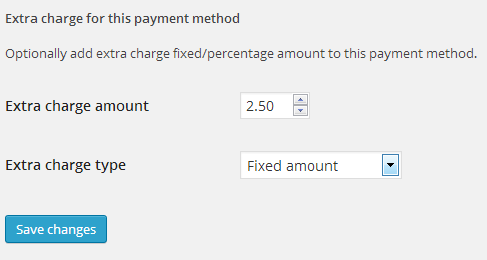
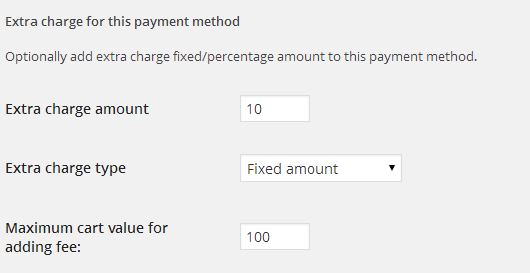
Version 1.3
* Add: You can set the maximum cart value to which apply fees.
* Tweak: Updated languages files
* Tweak: No longer calling the fees "Extra charges", but "fees" or "Payment method fees".
* Fix: Admin order page Javascript calculations now works properly

diff --git a/assets/js/write-panels.js b/assets/js/write-panels.js
@@ -1,13 +1,11 @@
 jQuery( document ).ready( function( $ ) {
     $( 'button.calc_totals').unbind( 'click' );
 
-    console.log( $( 'button.calc_totals').unbind( 'click' ) );
-
     $( 'button.calc_totals').on( 'click', function() {
         // Block write panel
-        $('#woocommerce-order-totals').block({ message: null, overlayCSS: { background: '#fff url(' + woocommerce_writepanel_params.plugin_url + '/assets/images/ajax-loader.gif) no-repeat center', opacity: 0.6 } });
+        $('#woocommerce-order-totals').block({ message: null, overlayCSS: { background: '#fff url(' + woocommerce_admin_meta_boxes.plugin_url + '/assets/images/ajax-loader.gif) no-repeat center', opacity: 0.6 } });
 
-        var answer = confirm(woocommerce_writepanel_params.calc_totals);
+        var answer = confirm(woocommerce_admin_meta_boxes.calc_totals);
 
         if (answer) {
 
@@ -43,7 +41,7 @@ jQuery( document ).ready( function( $ ) {
                 line_subtotal_taxes = line_subtotal_taxes + line_subtotal_tax;
                 line_totals = line_totals + line_total;
 
-                if ( woocommerce_writepanel_params.round_at_subtotal=='no' ) {
+                if ( woocommerce_admin_meta_boxes.round_at_subtotal=='no' ) {
                     line_tax = accounting.toFixed( line_tax, 2 );
                 }
 
@@ -51,7 +49,7 @@ jQuery( document ).ready( function( $ ) {
             });
 
             // Tax
-            if (woocommerce_writepanel_params.round_at_subtotal=='yes') {
+            if (woocommerce_admin_meta_boxes.round_at_subtotal=='yes') {
                 cart_tax = accounting.toFixed( cart_tax, 2 );
             }
 
@@ -69,7 +67,7 @@ jQuery( document ).ready( function( $ ) {
 
                 line_totals = line_totals + line_total;
 
-                if ( woocommerce_writepanel_params.round_at_subtotal=='no' ) {
+                if ( woocommerce_admin_meta_boxes.round_at_subtotal=='no' ) {
                     line_tax = accounting.toFixed( line_tax, 2 );
                 }
 
@@ -77,7 +75,7 @@ jQuery( document ).ready( function( $ ) {
             });
 
             // Tax
-            if (woocommerce_writepanel_params.round_at_subtotal=='yes') {
+            if (woocommerce_admin_meta_boxes.round_at_subtotal=='yes') {
                 cart_tax = parseFloat( accounting.toFixed( cart_tax, 2 ) );
             }
 

diff --git a/classes/class.wc-pgec.php b/classes/class.wc-pgec.php
@@ -76,14 +76,15 @@ class WooCommerce_Payment_Gateway_Extra_Charges {
     public function __construct() {
         global $pagenow;
 
-        $this->version                      = '1.1';
-        $this->suffix                       = defined( 'SCRIPT_DEBUG' ) && SCRIPT_DEBUG ? '' : '.min';
-        $this->plugin_url                   = $this->plugin_url();
-        $this->plugin_path                  = $this->plugin_path();
-        $this->gateways                     = WC()->payment_gateways->payment_gateways();
-        $this->current_gateway              = null;
-        $this->current_extra_charge_type    = '';
-        $this->current_extra_charge_amount  = 0;
+        $this->version                              = '1.3';
+        $this->suffix                               = defined( 'SCRIPT_DEBUG' ) && SCRIPT_DEBUG ? '' : '.min';
+        $this->plugin_url                           = $this->plugin_url();
+        $this->plugin_path                          = $this->plugin_path();
+        $this->gateways                             = WC()->payment_gateways->payment_gateways();
+        $this->current_gateway                      = null;
+        $this->current_extra_charge_type            = '';
+        $this->current_extra_charge_amount          = 0;
+        $this->current_extra_charge_max_cart_value  = 0;
 
         //Load plugin languages
         load_plugin_textdomain( 'wc_pgec', false, dirname( dirname( plugin_basename( __FILE__ ) ) ) . '/i18n/' );
@@ -118,6 +119,7 @@ class WooCommerce_Payment_Gateway_Extra_Charges {
         $current_gateway    = '';
         $charge_amount      = 0.00;
         $charge_type        = 'fixed';
+        $max_cart_value     = 0.00;
 
         if( $current_tab == 'checkout' && !empty( $current_section ) ) {
             foreach( $this->gateways as $gateway ) {
@@ -127,10 +129,12 @@ class WooCommerce_Payment_Gateway_Extra_Charges {
                     if( isset( $_REQUEST['save'] ) ) {
                         update_option( $this->get_option_id( $current_gateway, 'amount' ), $_REQUEST[ $this->get_option_id( $current_gateway, 'amount' ) ] );
                         update_option( $this->get_option_id( $current_gateway, 'type' ),   $_REQUEST[ $this->get_option_id( $current_gateway, 'type' ) ] );
+                        update_option( $this->get_option_id( $current_gateway, 'max_cart_value' ), $_REQUEST[ $this->get_option_id( $current_gateway, 'max_cart_value' ) ] );
                     }
 
-                    $charge_amount = get_option( $this->get_option_id( $current_gateway, 'amount' ) );
-                    $charge_type   = get_option( $this->get_option_id( $current_gateway, 'type' ) );
+                    $charge_amount  = get_option( $this->get_option_id( $current_gateway, 'amount' ) );
+                    $charge_type    = get_option( $this->get_option_id( $current_gateway, 'type' ) );
+                    $max_cart_value = get_option( $this->get_option_id( $current_gateway, 'max_cart_value' ) );
                 }
             }
 
@@ -157,6 +161,15 @@ class WooCommerce_Payment_Gateway_Extra_Charges {
                                     <option value="fixed" <?php selected( $charge_type, 'fixed' ) ?>><?php _e( 'Fixed amount', 'wc_pgec' ) ?></option>
                                     <option value="percentage"<?php selected( $charge_type, 'percentage' ) ?>><?php _e( 'Percentage amount', 'wc_pgec' ) ?></option>
                                 </select>
+                            </fieldset>
+                        </td>
+                    </tr>
+                    <tr valign="top">
+                        <th scope="row" class="titledesc"><label for="woocommerce_<?php echo $current_gateway ?>_extra_charge_max_cart_value"><?php _e( 'Maximum cart value for adding fee:', 'wc_pgec' ) ?></label></th>
+                        <td class="forminp">
+                            <fieldset>
+                                <legend class="screen-reader-text"><span><?php _e( 'Maximum cart value for adding fee:', 'wc_pgec' ) ?></span></legend>
+                                <input class="input-text regular-input " type="number" name="woocommerce_<?php echo $current_gateway ?>_extra_charge_max_cart_value" id="woocommerce_<?php echo $current_gateway ?>_extra_charge_max_cart_value" style="width:70px" value="<?php echo $max_cart_value ?>" placeholder="" min="0" step="0.01">
                             </fieldset>
                         </td>
                     </tr>
@@ -193,10 +206,12 @@ class WooCommerce_Payment_Gateway_Extra_Charges {
             }
         }
 
+        $extra_charge_max_cart_value    = get_option( $this->get_option_id( $current_gateway->id, 'max_cart_value' ) );
+
         //Add charges to cart totals
-        if( !empty( $current_gateway ) ) {
-            $extra_charge_amount = get_option( $this->get_option_id( $current_gateway->id, 'amount' ) );
-            $extra_charge_type   = get_option( $this->get_option_id( $current_gateway->id, 'type' ) );
+        if( !empty( $current_gateway ) && !empty( $extra_charge_max_cart_value ) && $extra_charge_max_cart_value >= $totals->cart_contents_total ) {
+            $extra_charge_amount            = get_option( $this->get_option_id( $current_gateway->id, 'amount' ) );
+            $extra_charge_type              = get_option( $this->get_option_id( $current_gateway->id, 'type' ) );
 
             if( $extra_charge_type == 'percentage' ) {
                 $extra_charge_amount = round( $totals->cart_contents_total * $extra_charge_amount / 100 , 2 );
@@ -222,10 +237,10 @@ class WooCommerce_Payment_Gateway_Extra_Charges {
         if( $this->current_extra_charge_amount <= 0 ) { return; }
         ?>
         <tr class="payment-extra-charge">
-            <th><?php printf( _x( '%s Extra Charge', '%s is the payment gateway choosen', 'wc_pgec' ), $this->current_gateway->title ) ?></th>
+            <th><?php printf( _x( '%s fee', '%s is the payment gateway choosen', 'wc_pgec' ), $this->current_gateway->title ) ?></th>
             <td>
             <?php if( $this->current_extra_charge_type == 'percentage' ) {
-                printf( _x( '%1$s (%2$.2f&#37;)', 'value of the extra charge in order review ( ie: 10,50€ (5%) )', 'wc_pgec' ), wc_price( $this->current_extra_charge_amount ), get_option( $this->get_option_id( $this->current_gateway->id, 'amount' ) ) ) ;
+                printf( _x( '%1$s (%2$.2f&#37;)', 'value of the fees in order review ( ie: 10,50€ (5%) )', 'wc_pgec' ), wc_price( $this->current_extra_charge_amount ), get_option( $this->get_option_id( $this->current_gateway->id, 'amount' ) ) ) ;
             } else {
                 echo wc_price( $this->current_extra_charge_amount );
             }
@@ -247,13 +262,14 @@ class WooCommerce_Payment_Gateway_Extra_Charges {
         </div>
         <!-- close previous div, due to the hook from WooCommerce -->
         <div class="totals_group">
-            <h4><?php _e( 'Extra Charge', 'wc_pgec' ); ?></h4>
+            <h4><?php _e( 'Payment method fee', 'wc_pgec' ); ?></h4>
             <ul class="totals">
                 <li class="wide">
-                    <label><?php _e( 'Extra charge', 'wc_pgec' )?>:</label>
+                    <label><?php _e( 'Payment method fee', 'wc_pgec' )?>:</label>
                     <input type="number" step="0.01" min="0" id="_extra-charge" name="_extra-charge" placeholder="0.00" value="<?php echo esc_attr( number_format( $extra_charge, 2 ) ) ?>" class="calculated" />
                 </li>
             </ul>
+            <div class="clear"></div>
         <?php
     }
 
@@ -268,7 +284,7 @@ class WooCommerce_Payment_Gateway_Extra_Charges {
         $last_element = array_pop( $total_rows );
 
         $total_rows['extra_charge'] = array(
-            'label' => __( 'Extra Charge', 'wc_pgec' ) . ':',
+            'label' => __( 'Payment method fee', 'wc_pgec' ) . ':',
             'value' => wc_price( get_post_meta( $wc_order->id, '_extra-charge', true ) )
         );
 
@@ -317,7 +333,7 @@ class WooCommerce_Payment_Gateway_Extra_Charges {
      * Enqueue JavaScript files
      */
     public function enqueue_scripts() {
-        wp_enqueue_script( 'wc-pgec-write-panels', $this->plugin_url() . '/assets/js/write-panels' . $this->suffix . '.js', array( 'woocommerce_writepanel' ), $this->version, true );
+        wp_enqueue_script( 'wc-pgec-write-panels', $this->plugin_url() . '/assets/js/write-panels' . $this->suffix . '.js', array( 'woocommerce_admin_meta_boxes' ), $this->version, true );
     }
 
     /**

diff --git a/woocommerce-payment-gateway-extra-charges.php b/woocommerce-payment-gateway-extra-charges.php
@@ -3,7 +3,7 @@
 Plugin Name:       WooCommerce Payment Gateway Extra Charges
 Plugin URI:        https://github.com/SiR-DanieL/woocommerce-payment-gateway-extra-charges
 Description:       A WooCommerce Extension that allows to add extra charges to your payment gateways
-Version:           1.2.1
+Version:           1.3
 Author:            Nicola Mustone
 Author URI:        http://nicolamustone.it
 Textdomain:        wc_pgec

diff --git a/README.md b/README.md
@@ -10,6 +10,12 @@ This extension will add an extra field in each WooCommerce Payment Gateway that 
 
 ## Changelog
 
+### 1.3
+* Add: You can set the maximum cart value to which apply fees.
+* Tweak: Updated languages files
+* Tweak: No longer calling the fees "Extra charges", but "fees" or "Payment method fees".
+* Fix: Admin order page Javascript calculations now works properly. 
+
 ### 1.2.1
 * Fix: Checkout fields not saved correctly
 
